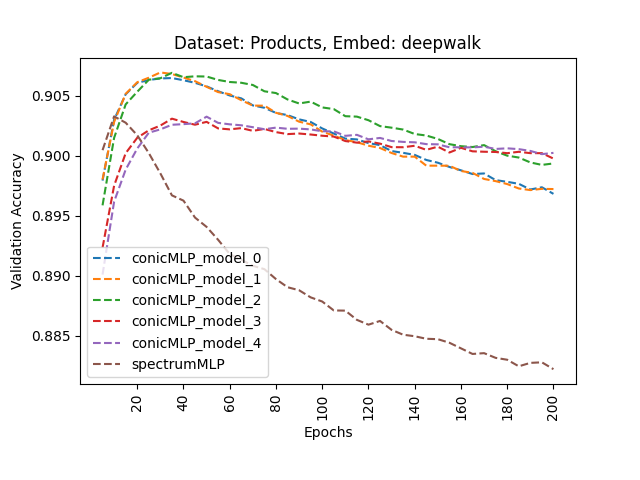
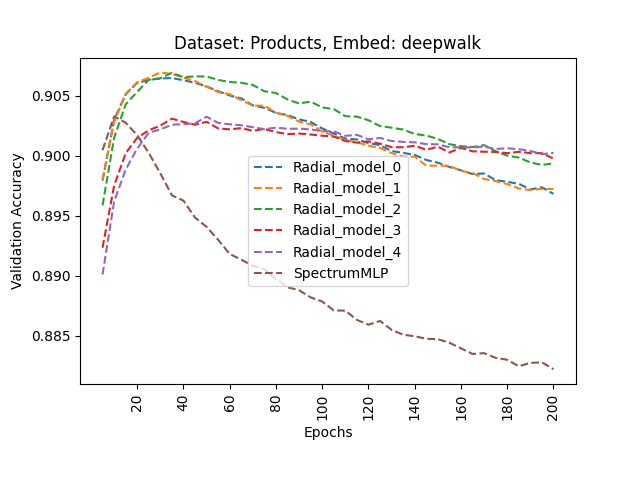
Changed conic names to radial

Changed region(s): [[0.1562, 0.3125, 0.625, 0.7812]]

diff --git a/create_nonTruncatedGraphs.py b/create_nonTruncatedGraphs.py
@@ -4,7 +4,7 @@ import matplotlib.pyplot as plt
 import numpy as np
 root_dir = "/home/ryanlee/Repositories/AISTATS_2024"
 
-dataset_name = ["Cora","CiteSeer","PubMed","WikiCs","Arxiv"]
+dataset_name = ["Cora","CiteSeer","PubMed","WikiCs","Arxiv","Products"]
 
 model_name = ["conicMLP_model_0","conicMLP_model_1","conicMLP_model_2","conicMLP_model_3","conicMLP_model_4","spectrumMLP"]
 
